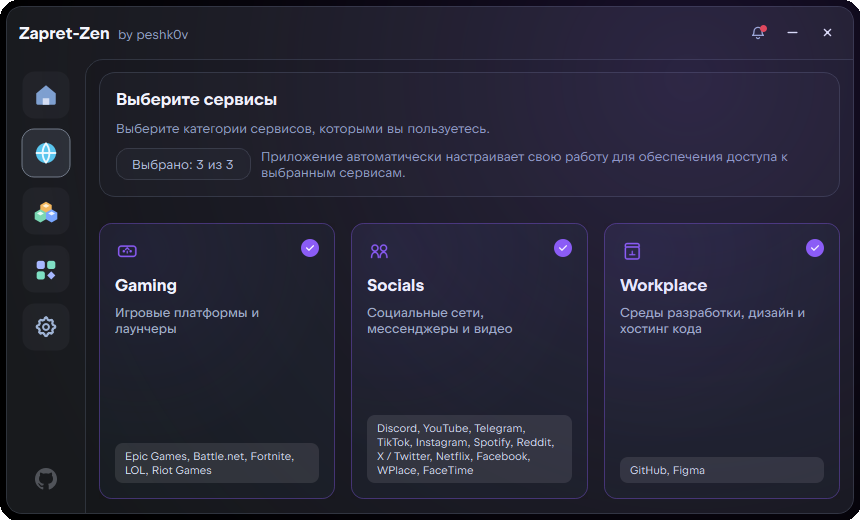
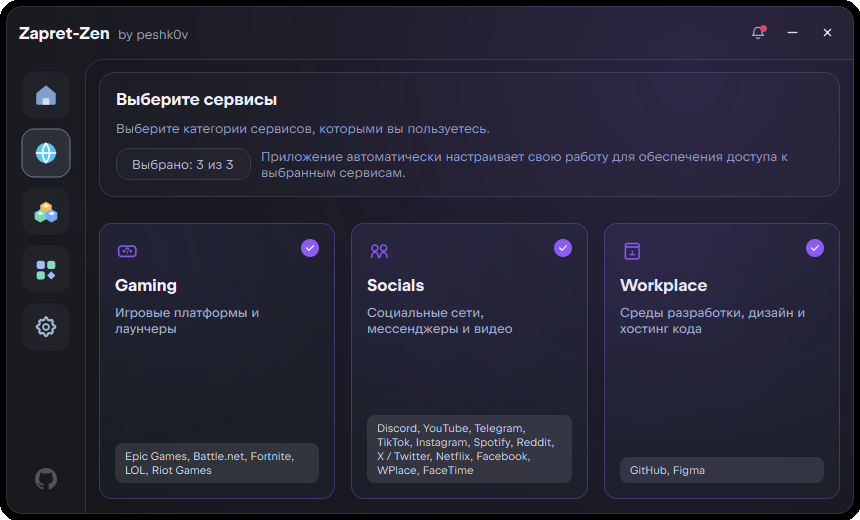
исправил ошибки фона

Changed region(s): [[0.514, 0.0, 1.0, 0.4923]]

diff --git a/src/zapret_zen/ui/main_window.py b/src/zapret_zen/ui/main_window.py
@@ -2669,6 +2669,9 @@ class ContentGlowWidget(QWidget):
         c = self._accent_color
         light = c.lightnessF() > 0.5
         base_alpha = 0.06 if light else 0.10
+        path = QPainterPath()
+        path.addRoundedRect(QRectF(self.rect()).adjusted(6, 6, -6, -6), 16, 16)
+        painter.setClipPath(path)
         glow = QRadialGradient(
             rect.left() + rect.width() * self._glow_x,
             rect.top() + rect.height() * self._glow_y,
